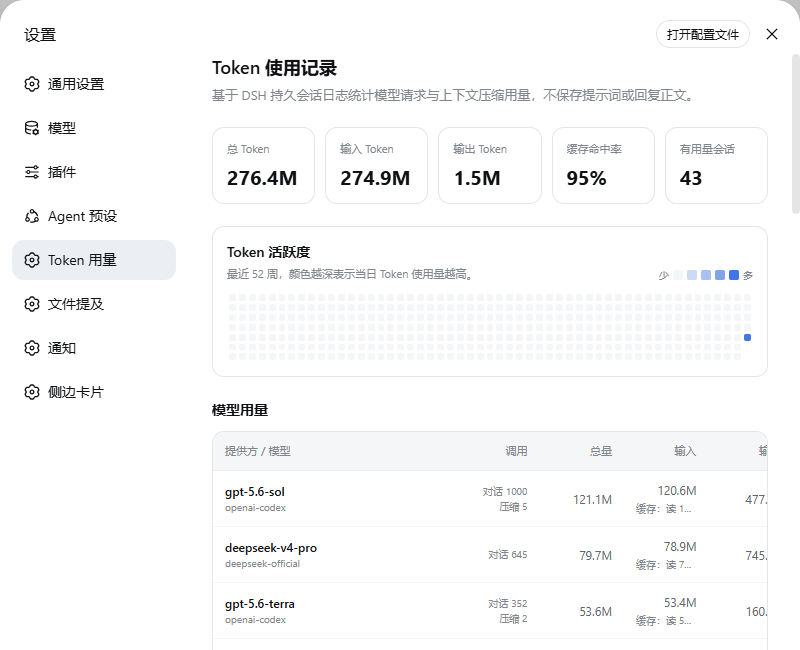
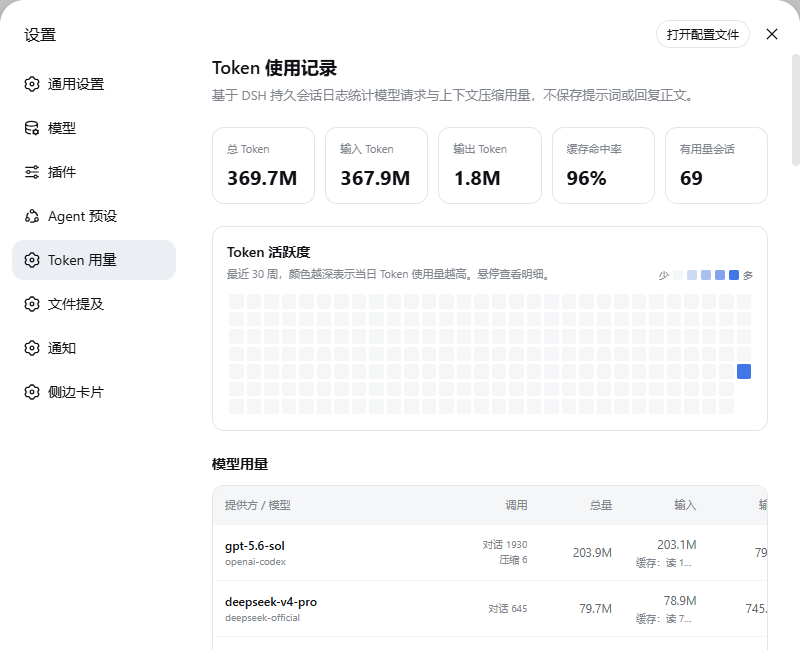
feat: condense heatmap to 30 weeks

diff --git a/lib/client.js b/lib/client.js
@@ -7,7 +7,7 @@ window.__ModuleLoader__.load({
 		let react = require("react");
 		let react_jsx_runtime = require("react/jsx-runtime");
 		//#region \0dsh-css:C:\Users\zhanglimin202307\Desktop\dsh\dsh-token-usage\src\client\TokenUsageSection.module.css.mjs
-		const css = ".hGAOSW_section{width:100%;max-width:960px;color:var(--dsw-alias-label-primary);flex-direction:column;gap:22px;display:flex}.hGAOSW_header h2,.hGAOSW_header p,.hGAOSW_block h3,.hGAOSW_status{margin:0}.hGAOSW_header h2{font-size:18px;font-weight:600;line-height:26px}.hGAOSW_header p{max-width:720px;color:var(--dsw-alias-label-tertiary);margin-top:5px;font-size:13px;line-height:20px}.hGAOSW_metrics{grid-template-columns:repeat(5,minmax(0,1fr));gap:10px;display:grid}.hGAOSW_metric{box-sizing:border-box;border:1px solid var(--dsw-alias-border-l2);background:var(--dsw-alias-bg-layer-3);border-radius:12px;flex-direction:column;gap:7px;min-width:0;padding:13px 14px;display:flex}.hGAOSW_metric span{color:var(--dsw-alias-label-tertiary);text-overflow:ellipsis;white-space:nowrap;font-size:11px;line-height:16px;overflow:hidden}.hGAOSW_metric strong{font-variant-numeric:tabular-nums;text-overflow:ellipsis;font-size:20px;line-height:26px;overflow:hidden}.hGAOSW_activity{border:1px solid var(--dsw-alias-border-l2);background:var(--dsw-alias-bg-layer-3);border-radius:12px;flex-direction:column;gap:10px;min-width:0;padding:14px;display:flex}.hGAOSW_activityHead{justify-content:space-between;align-items:flex-end;gap:14px;display:flex}.hGAOSW_activityHead h3,.hGAOSW_activityHead p{margin:0}.hGAOSW_activityHead h3{font-size:14px;font-weight:600;line-height:22px}.hGAOSW_activityHead p{color:var(--dsw-alias-label-tertiary);margin-top:2px;font-size:11px;line-height:17px}.hGAOSW_activityGrid{box-sizing:border-box;grid-template-rows:repeat(7,minmax(0,1fr));grid-template-columns:repeat(53,minmax(0,1fr));grid-auto-flow:column;gap:3px;width:100%;min-width:0;padding:2px;display:grid}.hGAOSW_activityGrid i,.hGAOSW_activityLegend i{background:var(--dsw-alias-bg-module-platform);border-radius:2px;flex:none;display:block}.hGAOSW_activityGrid i{aspect-ratio:1;width:100%;min-width:0}.hGAOSW_activityLegend i{width:10px;height:10px}.hGAOSW_activityGrid i[data-level=\"1\"],.hGAOSW_activityLegend i[data-level=\"1\"]{background:color-mix(in srgb, var(--dsw-alias-state-business-primary) 22%, var(--dsw-alias-bg-module-platform))}.hGAOSW_activityGrid i[data-level=\"2\"],.hGAOSW_activityLegend i[data-level=\"2\"]{background:color-mix(in srgb, var(--dsw-alias-state-business-primary) 42%, var(--dsw-alias-bg-module-platform))}.hGAOSW_activityGrid i[data-level=\"3\"],.hGAOSW_activityLegend i[data-level=\"3\"]{background:color-mix(in srgb, var(--dsw-alias-state-business-primary) 64%, var(--dsw-alias-bg-module-platform))}.hGAOSW_activityGrid i[data-level=\"4\"],.hGAOSW_activityLegend i[data-level=\"4\"]{background:var(--dsw-alias-state-business-primary)}.hGAOSW_activityLegend{color:var(--dsw-alias-label-tertiary);white-space:nowrap;align-items:center;gap:4px;font-size:10px;line-height:14px;display:flex}.hGAOSW_block{flex-direction:column;gap:10px;min-width:0;display:flex}.hGAOSW_block h3{font-size:14px;font-weight:600;line-height:22px}.hGAOSW_blockHead{justify-content:space-between;align-items:center;gap:16px;display:flex}.hGAOSW_blockHead input{box-sizing:border-box;border:1px solid var(--dsw-alias-border-l2);background:var(--dsw-alias-bg-layer-1);width:min(280px,45%);height:34px;color:var(--dsw-alias-label-primary);font:inherit;border-radius:8px;outline:none;padding:0 11px;font-size:12px}.hGAOSW_blockHead input::placeholder{color:var(--dsw-alias-label-tertiary)}.hGAOSW_blockHead input:focus-visible{border-color:var(--dsw-alias-state-business-primary);box-shadow:0 0 0 2px color-mix(in srgb, var(--dsw-alias-state-business-primary) 18%, transparent)}.hGAOSW_tableWrap{border:1px solid var(--dsw-alias-border-l2);background:var(--dsw-alias-bg-layer-3);border-radius:12px;min-width:0;overflow:auto}.hGAOSW_tableWrap table{border-collapse:collapse;width:100%;min-width:0;font-size:12px;line-height:18px}.hGAOSW_tableWrap .hGAOSW_modelTable{table-layout:fixed;min-width:580px}.hGAOSW_tableWrap .hGAOSW_sessionTable{min-width:660px}.hGAOSW_modelTable th:first-child,.hGAOSW_modelTable td:first-child{width:30%}.hGAOSW_modelTable th:nth-child(2),.hGAOSW_modelTable td:nth-child(2){width:18%}.hGAOSW_tableWrap th,.hGAOSW_tableWrap td{border-bottom:1px solid var(--dsw-alias-border-l1);text-align:right;vertical-align:middle;white-space:nowrap;padding:10px 12px}.hGAOSW_tableWrap th{background:var(--dsw-alias-bg-module-platform);color:var(--dsw-alias-label-tertiary);font-size:11px;font-weight:500}.hGAOSW_tableWrap th:first-child,.hGAOSW_tableWrap td:first-child{text-align:left;max-width:270px}.hGAOSW_tableWrap tbody tr:last-child td{border-bottom:0}.hGAOSW_tableWrap tbody tr:hover td{background:var(--dsw-alias-interactive-bg-hover)}.hGAOSW_tableWrap td{color:var(--dsw-alias-label-secondary);font-variant-numeric:tabular-nums}.hGAOSW_tableWrap td strong,.hGAOSW_tableWrap td span{text-overflow:ellipsis;max-width:260px;display:block;overflow:hidden}.hGAOSW_tableWrap td strong{color:var(--dsw-alias-label-primary);font-size:12px;font-weight:600}.hGAOSW_tableWrap td span{color:var(--dsw-alias-label-tertiary);font-size:10px;line-height:15px}.hGAOSW_tableWrap td .hGAOSW_tokenValue{max-width:none;color:inherit;font-size:inherit;line-height:inherit;display:inline}.hGAOSW_tableWrap td .hGAOSW_cacheDetail{margin-top:2px}.hGAOSW_status{background:var(--dsw-alias-bg-module-platform);color:var(--dsw-alias-label-tertiary);border-radius:10px;padding:16px;font-size:13px;line-height:20px}@media (width<=860px){.hGAOSW_metrics{grid-template-columns:repeat(3,minmax(0,1fr))}}@media (width<=580px){.hGAOSW_metrics{grid-template-columns:repeat(2,minmax(0,1fr))}.hGAOSW_activityHead,.hGAOSW_blockHead{flex-direction:column;align-items:stretch;gap:8px}.hGAOSW_blockHead input{width:100%}}";
+		const css = ".hGAOSW_section{width:100%;max-width:960px;color:var(--dsw-alias-label-primary);flex-direction:column;gap:22px;display:flex}.hGAOSW_header h2,.hGAOSW_header p,.hGAOSW_block h3,.hGAOSW_status{margin:0}.hGAOSW_header h2{font-size:18px;font-weight:600;line-height:26px}.hGAOSW_header p{max-width:720px;color:var(--dsw-alias-label-tertiary);margin-top:5px;font-size:13px;line-height:20px}.hGAOSW_metrics{grid-template-columns:repeat(5,minmax(0,1fr));gap:10px;display:grid}.hGAOSW_metric{box-sizing:border-box;border:1px solid var(--dsw-alias-border-l2);background:var(--dsw-alias-bg-layer-3);border-radius:12px;flex-direction:column;gap:7px;min-width:0;padding:13px 14px;display:flex}.hGAOSW_metric span{color:var(--dsw-alias-label-tertiary);text-overflow:ellipsis;white-space:nowrap;font-size:11px;line-height:16px;overflow:hidden}.hGAOSW_metric strong{font-variant-numeric:tabular-nums;text-overflow:ellipsis;font-size:20px;line-height:26px;overflow:hidden}.hGAOSW_activity{border:1px solid var(--dsw-alias-border-l2);background:var(--dsw-alias-bg-layer-3);border-radius:12px;flex-direction:column;gap:10px;min-width:0;padding:14px;display:flex}.hGAOSW_activityHead{justify-content:space-between;align-items:flex-end;gap:14px;display:flex}.hGAOSW_activityHead h3,.hGAOSW_activityHead p{margin:0}.hGAOSW_activityHead h3{font-size:14px;font-weight:600;line-height:22px}.hGAOSW_activityHead p{color:var(--dsw-alias-label-tertiary);margin-top:2px;font-size:11px;line-height:17px}.hGAOSW_activityGrid{box-sizing:border-box;grid-template-rows:repeat(7,minmax(0,1fr));grid-template-columns:repeat(30,minmax(0,1fr));grid-auto-flow:column;gap:3px;width:100%;min-width:0;padding:2px;display:grid}.hGAOSW_activityGrid i,.hGAOSW_activityLegend i{background:var(--dsw-alias-bg-module-platform);border-radius:2px;flex:none;display:block}.hGAOSW_activityGrid i{aspect-ratio:1;width:100%;min-width:0}.hGAOSW_activityLegend i{width:10px;height:10px}.hGAOSW_activityGrid i[data-future=true]{background:0 0}.hGAOSW_activityGrid i[data-level=\"1\"],.hGAOSW_activityLegend i[data-level=\"1\"]{background:color-mix(in srgb, var(--dsw-alias-state-business-primary) 22%, var(--dsw-alias-bg-module-platform))}.hGAOSW_activityGrid i[data-level=\"2\"],.hGAOSW_activityLegend i[data-level=\"2\"]{background:color-mix(in srgb, var(--dsw-alias-state-business-primary) 42%, var(--dsw-alias-bg-module-platform))}.hGAOSW_activityGrid i[data-level=\"3\"],.hGAOSW_activityLegend i[data-level=\"3\"]{background:color-mix(in srgb, var(--dsw-alias-state-business-primary) 64%, var(--dsw-alias-bg-module-platform))}.hGAOSW_activityGrid i[data-level=\"4\"],.hGAOSW_activityLegend i[data-level=\"4\"]{background:var(--dsw-alias-state-business-primary)}.hGAOSW_activityLegend{color:var(--dsw-alias-label-tertiary);white-space:nowrap;align-items:center;gap:4px;font-size:10px;line-height:14px;display:flex}.hGAOSW_block{flex-direction:column;gap:10px;min-width:0;display:flex}.hGAOSW_block h3{font-size:14px;font-weight:600;line-height:22px}.hGAOSW_blockHead{justify-content:space-between;align-items:center;gap:16px;display:flex}.hGAOSW_blockHead input{box-sizing:border-box;border:1px solid var(--dsw-alias-border-l2);background:var(--dsw-alias-bg-layer-1);width:min(280px,45%);height:34px;color:var(--dsw-alias-label-primary);font:inherit;border-radius:8px;outline:none;padding:0 11px;font-size:12px}.hGAOSW_blockHead input::placeholder{color:var(--dsw-alias-label-tertiary)}.hGAOSW_blockHead input:focus-visible{border-color:var(--dsw-alias-state-business-primary);box-shadow:0 0 0 2px color-mix(in srgb, var(--dsw-alias-state-business-primary) 18%, transparent)}.hGAOSW_tableWrap{border:1px solid var(--dsw-alias-border-l2);background:var(--dsw-alias-bg-layer-3);border-radius:12px;min-width:0;overflow:auto}.hGAOSW_tableWrap table{border-collapse:collapse;width:100%;min-width:0;font-size:12px;line-height:18px}.hGAOSW_tableWrap .hGAOSW_modelTable{table-layout:fixed;min-width:580px}.hGAOSW_tableWrap .hGAOSW_sessionTable{min-width:660px}.hGAOSW_modelTable th:first-child,.hGAOSW_modelTable td:first-child{width:30%}.hGAOSW_modelTable th:nth-child(2),.hGAOSW_modelTable td:nth-child(2){width:18%}.hGAOSW_tableWrap th,.hGAOSW_tableWrap td{border-bottom:1px solid var(--dsw-alias-border-l1);text-align:right;vertical-align:middle;white-space:nowrap;padding:10px 12px}.hGAOSW_tableWrap th{background:var(--dsw-alias-bg-module-platform);color:var(--dsw-alias-label-tertiary);font-size:11px;font-weight:500}.hGAOSW_tableWrap th:first-child,.hGAOSW_tableWrap td:first-child{text-align:left;max-width:270px}.hGAOSW_tableWrap tbody tr:last-child td{border-bottom:0}.hGAOSW_tableWrap tbody tr:hover td{background:var(--dsw-alias-interactive-bg-hover)}.hGAOSW_tableWrap td{color:var(--dsw-alias-label-secondary);font-variant-numeric:tabular-nums}.hGAOSW_tableWrap td strong,.hGAOSW_tableWrap td span{text-overflow:ellipsis;max-width:260px;display:block;overflow:hidden}.hGAOSW_tableWrap td strong{color:var(--dsw-alias-label-primary);font-size:12px;font-weight:600}.hGAOSW_tableWrap td span{color:var(--dsw-alias-label-tertiary);font-size:10px;line-height:15px}.hGAOSW_tableWrap td .hGAOSW_tokenValue{max-width:none;color:inherit;font-size:inherit;line-height:inherit;display:inline}.hGAOSW_tableWrap td .hGAOSW_cacheDetail{margin-top:2px}.hGAOSW_status{background:var(--dsw-alias-bg-module-platform);color:var(--dsw-alias-label-tertiary);border-radius:10px;padding:16px;font-size:13px;line-height:20px}@media (width<=860px){.hGAOSW_metrics{grid-template-columns:repeat(3,minmax(0,1fr))}}@media (width<=580px){.hGAOSW_metrics{grid-template-columns:repeat(2,minmax(0,1fr))}.hGAOSW_activityHead,.hGAOSW_blockHead{flex-direction:column;align-items:stretch;gap:8px}.hGAOSW_blockHead input{width:100%}}";
 		const tagId = "dsh-token-usage/TokenUsageSection.module.css";
 		if (typeof document !== "undefined" && document.querySelector("style[data-plugin-css=" + JSON.stringify(tagId) + "]") === null) {
 			const tag = document.createElement("style");
@@ -17,22 +17,22 @@ window.__ModuleLoader__.load({
 			document.head.appendChild(tag);
 		}
 		var TokenUsageSection_module_css_default = {
+			"activityGrid": "hGAOSW_activityGrid",
 			"status": "hGAOSW_status",
 			"activity": "hGAOSW_activity",
-			"metric": "hGAOSW_metric",
-			"modelTable": "hGAOSW_modelTable",
-			"activityLegend": "hGAOSW_activityLegend",
 			"block": "hGAOSW_block",
 			"sessionTable": "hGAOSW_sessionTable",
-			"activityGrid": "hGAOSW_activityGrid",
-			"metrics": "hGAOSW_metrics",
-			"section": "hGAOSW_section",
-			"tableWrap": "hGAOSW_tableWrap",
-			"activityHead": "hGAOSW_activityHead",
-			"blockHead": "hGAOSW_blockHead",
-			"tokenValue": "hGAOSW_tokenValue",
 			"cacheDetail": "hGAOSW_cacheDetail",
-			"header": "hGAOSW_header"
+			"activityLegend": "hGAOSW_activityLegend",
+			"header": "hGAOSW_header",
+			"tokenValue": "hGAOSW_tokenValue",
+			"tableWrap": "hGAOSW_tableWrap",
+			"modelTable": "hGAOSW_modelTable",
+			"blockHead": "hGAOSW_blockHead",
+			"section": "hGAOSW_section",
+			"metrics": "hGAOSW_metrics",
+			"metric": "hGAOSW_metric",
+			"activityHead": "hGAOSW_activityHead"
 		};
 		//#endregion
 		//#region src/client/TokenUsageSection.tsx
@@ -195,22 +195,26 @@ window.__ModuleLoader__.load({
 				children: formatCompactTokens(value)
 			});
 		}
-		/** Build Monday-first calendar cells for the previous 52 weeks. */
+		/** Build exactly 30 Monday-first calendar weeks, including blank future days this week. */
 		function activityCalendar(days, now = Date.now()) {
-			const byDate = new Map(days.map((day) => [day.date, totalTokens(day.usage)]));
-			const end = /* @__PURE__ */ new Date(`${dayKey(now)}T00:00:00.000Z`);
+			const byDate = new Map(days.map((day) => [day.date, day.usage]));
+			const today = dayKey(now);
+			const end = /* @__PURE__ */ new Date(`${today}T00:00:00.000Z`);
 			const start = new Date(end);
-			start.setUTCDate(start.getUTCDate() - 364);
-			start.setUTCDate(start.getUTCDate() - (start.getUTCDay() + 6) % 7);
+			start.setUTCDate(start.getUTCDate() - (start.getUTCDay() + 6) % 7 - 203);
 			const dates = [];
-			for (const cursor = new Date(start); cursor <= end; cursor.setUTCDate(cursor.getUTCDate() + 1)) dates.push(dayKey(cursor.getTime()));
-			const maximum = Math.max(0, ...dates.map((date) => byDate.get(date) ?? 0));
+			for (const cursor = new Date(start); dates.length < 210; cursor.setUTCDate(cursor.getUTCDate() + 1)) dates.push(dayKey(cursor.getTime()));
+			const maximum = Math.max(0, ...dates.filter((date) => date <= today).map((date) => totalTokens(byDate.get(date) ?? zeroBuckets())));
 			return dates.map((date) => {
-				const tokens = byDate.get(date) ?? 0;
+				const future = date > today;
+				const usage = byDate.get(date) ?? zeroBuckets();
+				const tokens = future ? 0 : totalTokens(usage);
 				return {
 					date,
+					usage,
 					tokens,
-					level: tokens === 0 || maximum === 0 ? 0 : Math.ceil(tokens / maximum * 4)
+					level: tokens === 0 || maximum === 0 ? 0 : Math.ceil(tokens / maximum * 4),
+					future
 				};
 			});
 		}
@@ -240,18 +244,25 @@ window.__ModuleLoader__.load({
 					className: TokenUsageSection_module_css_default.activityGrid,
 					role: "grid",
 					"aria-label": t("activity"),
-					children: calendar.map((day) => /* @__PURE__ */ (0, react_jsx_runtime.jsx)("i", {
-						role: "gridcell",
-						"data-level": day.level,
-						title: t("activityTooltip", {
+					children: calendar.map((day) => {
+						const details = day.future ? void 0 : t("activityTooltip", {
 							date: day.date,
-							tokens: formatTokens(day.tokens)
-						}),
-						"aria-label": t("activityTooltip", {
-							date: day.date,
-							tokens: formatTokens(day.tokens)
-						})
-					}, day.date))
+							total: formatTokens(day.tokens),
+							input: formatTokens(inputTokens(day.usage)),
+							output: formatTokens(day.usage.outputTokens),
+							cacheRead: formatTokens(day.usage.cacheReadTokens),
+							cacheWrite: formatTokens(day.usage.cacheWriteTokens)
+						});
+						return /* @__PURE__ */ (0, react_jsx_runtime.jsx)("i", {
+							role: "gridcell",
+							"data-level": day.level,
+							"data-future": day.future ? "true" : void 0,
+							...details === void 0 ? {} : {
+								title: details,
+								"aria-label": details
+							}
+						}, day.date);
+					})
 				})]
 			});
 		}
@@ -409,8 +420,8 @@ window.__ModuleLoader__.load({
 			sessions: "有用量会话",
 			modelBreakdown: "模型用量",
 			activity: "Token 活跃度",
-			activityIntro: "最近 52 周，颜色越深表示当日 Token 使用量越高。",
-			activityTooltip: "{date} · {tokens} Token",
+			activityIntro: "最近 30 周，颜色越深表示当日 Token 使用量越高。悬停查看明细。",
+			activityTooltip: "{date}\n总计 {total} Token\n输入 {input} · 输出 {output}\n缓存：读 {cacheRead} · 写 {cacheWrite}",
 			less: "少",
 			more: "多",
 			recentSessions: "会话记录",
@@ -446,8 +457,8 @@ window.__ModuleLoader__.load({
 			sessions: "Sessions with usage",
 			modelBreakdown: "Usage by model",
 			activity: "Token activity",
-			activityIntro: "Last 52 weeks. Darker cells represent higher daily Token usage.",
-			activityTooltip: "{date} · {tokens} tokens",
+			activityIntro: "Last 30 weeks. Darker cells represent higher daily Token usage. Hover for details.",
+			activityTooltip: "{date}\nTotal {total} tokens\nInput {input} · Output {output}\nCache: read {cacheRead} · write {cacheWrite}",
 			less: "Less",
 			more: "More",
 			recentSessions: "Session records",

diff --git a/src/client/TokenUsageSection.tsx b/src/client/TokenUsageSection.tsx
@@ -196,27 +196,33 @@ function TokenValue({ value }: { value: number }): ReactNode {
 
 interface ActivityDay {
   date: string
+  usage: TokenUsageBuckets
   tokens: number
   level: 0 | 1 | 2 | 3 | 4
+  future: boolean
 }
 
-/** Build Monday-first calendar cells for the previous 52 weeks. */
+/** Build exactly 30 Monday-first calendar weeks, including blank future days this week. */
 function activityCalendar(days: readonly DailyTokenUsageRecord[], now = Date.now()): ActivityDay[] {
-  const byDate = new Map(days.map(day => [day.date, totalTokens(day.usage)]))
-  const end = new Date(`${dayKey(now)}T00:00:00.000Z`)
+  const byDate = new Map(days.map(day => [day.date, day.usage]))
+  const today = dayKey(now)
+  const end = new Date(`${today}T00:00:00.000Z`)
   const start = new Date(end)
-  start.setUTCDate(start.getUTCDate() - 364)
-  start.setUTCDate(start.getUTCDate() - ((start.getUTCDay() + 6) % 7))
+  start.setUTCDate(start.getUTCDate() - ((start.getUTCDay() + 6) % 7) - 29 * 7)
 
   const dates: string[] = []
-  for (const cursor = new Date(start); cursor <= end; cursor.setUTCDate(cursor.getUTCDate() + 1)) {
+  for (const cursor = new Date(start); dates.length < 30 * 7; cursor.setUTCDate(cursor.getUTCDate() + 1)) {
     dates.push(dayKey(cursor.getTime()))
   }
-  const maximum = Math.max(0, ...dates.map(date => byDate.get(date) ?? 0))
+  const maximum = Math.max(0, ...dates
+    .filter(date => date <= today)
+    .map(date => totalTokens(byDate.get(date) ?? zeroBuckets())))
   return dates.map((date) => {
-    const tokens = byDate.get(date) ?? 0
+    const future = date > today
+    const usage = byDate.get(date) ?? zeroBuckets()
+    const tokens = future ? 0 : totalTokens(usage)
     const level = tokens === 0 || maximum === 0 ? 0 : Math.ceil(tokens / maximum * 4) as ActivityDay['level']
-    return { date, tokens, level }
+    return { date, usage, tokens, level, future }
   })
 }
 
@@ -237,15 +243,25 @@ function ActivityHeatmap({ days, t }: { days: readonly DailyTokenUsageRecord[]; 
         </div>
       </div>
       <div className={css.activityGrid} role="grid" aria-label={t('activity')}>
-        {calendar.map(day => (
-          <i
-            key={day.date}
-            role="gridcell"
-            data-level={day.level}
-            title={t('activityTooltip', { date: day.date, tokens: formatTokens(day.tokens) })}
-            aria-label={t('activityTooltip', { date: day.date, tokens: formatTokens(day.tokens) })}
-          />
-        ))}
+        {calendar.map((day) => {
+          const details = day.future ? undefined : t('activityTooltip', {
+            date: day.date,
+            total: formatTokens(day.tokens),
+            input: formatTokens(inputTokens(day.usage)),
+            output: formatTokens(day.usage.outputTokens),
+            cacheRead: formatTokens(day.usage.cacheReadTokens),
+            cacheWrite: formatTokens(day.usage.cacheWriteTokens),
+          })
+          return (
+            <i
+              key={day.date}
+              role="gridcell"
+              data-level={day.level}
+              data-future={day.future ? 'true' : undefined}
+              {...details === undefined ? {} : { title: details, 'aria-label': details }}
+            />
+          )
+        })}
       </div>
     </div>
   )

diff --git a/src/client/locales.ts b/src/client/locales.ts
@@ -15,8 +15,8 @@ export const zh = {
   sessions: '有用量会话',
   modelBreakdown: '模型用量',
   activity: 'Token 活跃度',
-  activityIntro: '最近 52 周，颜色越深表示当日 Token 使用量越高。',
-  activityTooltip: '{date} · {tokens} Token',
+  activityIntro: '最近 30 周，颜色越深表示当日 Token 使用量越高。悬停查看明细。',
+  activityTooltip: '{date}\n总计 {total} Token\n输入 {input} · 输出 {output}\n缓存：读 {cacheRead} · 写 {cacheWrite}',
   less: '少',
   more: '多',
   recentSessions: '会话记录',
@@ -56,8 +56,8 @@ export const en = {
   sessions: 'Sessions with usage',
   modelBreakdown: 'Usage by model',
   activity: 'Token activity',
-  activityIntro: 'Last 52 weeks. Darker cells represent higher daily Token usage.',
-  activityTooltip: '{date} · {tokens} tokens',
+  activityIntro: 'Last 30 weeks. Darker cells represent higher daily Token usage. Hover for details.',
+  activityTooltip: '{date}\nTotal {total} tokens\nInput {input} · Output {output}\nCache: read {cacheRead} · write {cacheWrite}',
   less: 'Less',
   more: 'More',
   recentSessions: 'Session records',

diff --git a/tests/component.client.spec.tsx b/tests/component.client.spec.tsx
@@ -224,7 +224,10 @@ describe('TokenUsageSection', () => {
     render(<TokenUsageSection {...props([activity])} />)
 
     expect(screen.getByRole('grid', { name: 'Token 活跃度' })).toBeTruthy()
-    expect(screen.getByTitle('2026-08-12 · 1,000 Token').getAttribute('data-level')).toBe('4')
+    const cell = screen.getAllByRole('gridcell').find(item => item.getAttribute('title')?.startsWith('2026-08-12'))
+    expect(screen.getAllByRole('gridcell')).toHaveLength(210)
+    expect(cell?.getAttribute('title')).toBe('2026-08-12\n总计 1,000 Token\n输入 1,000 · 输出 0\n缓存：读 0 · 写 0')
+    expect(cell?.getAttribute('data-level')).toBe('4')
   })
 
   it('renders totals, model attribution, and filters session records', () => {

diff --git a/src/client/TokenUsageSection.module.css b/src/client/TokenUsageSection.module.css
@@ -105,7 +105,7 @@
   width: 100%;
   min-width: 0;
   grid-auto-flow: column;
-  grid-template-columns: repeat(53, minmax(0, 1fr));
+  grid-template-columns: repeat(30, minmax(0, 1fr));
   grid-template-rows: repeat(7, minmax(0, 1fr));
   gap: 3px;
   padding: 2px;
@@ -128,6 +128,10 @@
 .activityLegend i {
   width: 10px;
   height: 10px;
+}
+
+.activityGrid i[data-future='true'] {
+  background: transparent;
 }
 
 .activityGrid i[data-level='1'],

diff --git a/README.md b/README.md
@@ -12,7 +12,7 @@
 </p>
 
 <p align="center">
-  <img src="./assets/token-usage-settings.png" alt="DSH 设置页中的 Token 使用记录：统计卡、52 周热力图与模型用量表" width="100%">
+  <img src="./assets/token-usage-settings.png" alt="DSH 设置页中的 Token 使用记录：统计卡、30 周热力图与模型用量表" width="100%">
 </p>
 
 > 真实 DSH 设置页截图。截图仅展示聚合 Token 统计与模型路由，不包含会话标题、提示词或回复正文。
@@ -20,7 +20,7 @@
 ## 🗺 功能概览
 
 <p align="center">
-  <img src="./assets/token-usage-dashboard.svg" alt="Token 使用记录功能示意：统计卡、52 周活跃度热力图、模型用量与隐私保护" width="100%">
+  <img src="./assets/token-usage-dashboard.svg" alt="Token 使用记录功能示意：统计卡、30 周活跃度热力图、模型用量与隐私保护" width="100%">
 </p>
 
 ## ✨ 亮点
@@ -29,7 +29,7 @@
 | --- | --- |
 | **完整 Token bucket** | 分别记录未缓存输入、输出、缓存读取与缓存写入；`reasoningTokens` 已包含在输出中，不重复计算。 |
 | **多维统计** | 以 provider / model、会话与 UTC 日期聚合普通对话、每次重试和上下文压缩用量。 |
-| **52 周热力图** | GitHub commit graph 风格的 Token 活跃度图；颜色越深代表当天总用量越高，悬停可查看精确数值。 |
+| **30 周热力图** | GitHub commit graph 风格的 Token 活跃度图；颜色越深代表当天总用量越高，悬停可查看总量、输入、输出与缓存读写明细。 |
 | **紧凑布局** | 使用 `K` / `M` / `B` 展示大数字，悬停显示完整数值；热力图自适应设置页宽度，默认无需横向拖动。 |
 | **历史预热** | 启动后顺序回放可读取的历史会话并写入 projection cache，不阻塞插件启动。 |
 | **隐私优先** | 仅保留统计 bucket、日期和模型路由，不复制提示词、回复内容或其他会话正文。 |
@@ -56,7 +56,7 @@ dsh plugin --profile web add ./dsh-token-usage
 ## 📊 仪表盘内容
 
 - **概览卡片**：总 Token、输入 Token、输出 Token、缓存命中率和有用量会话数。
-- **Token 活跃度**：最近 52 周按天汇总的热力图；每个方格提供“日期 · 精确 Token 数”的悬停说明。
+- **Token 活跃度**：最近 30 周按天汇总的热力图；悬停方格可查看日期、总量、输入、输出以及缓存读写明细。
 - **模型用量**：按 provider / model 汇总调用次数、总量、输入与输出；缓存读写作为输入的辅助明细展示。
 - **会话记录**：可搜索会话标题、会话 ID 或模型路由，并查看最近活动时间及用量分布。
 
@@ -79,7 +79,7 @@ flowchart LR
   B --> C[Session projection cache]
   C --> D[Settings · Token 用量]
   D --> E[概览与模型统计]
-  D --> F[52 周活跃度热力图]
+  D --> F[30 周活跃度热力图]
 ```
 
 - Host 侧监听普通模型请求、重试和上下文压缩事件，构建会话级持久 projection。
